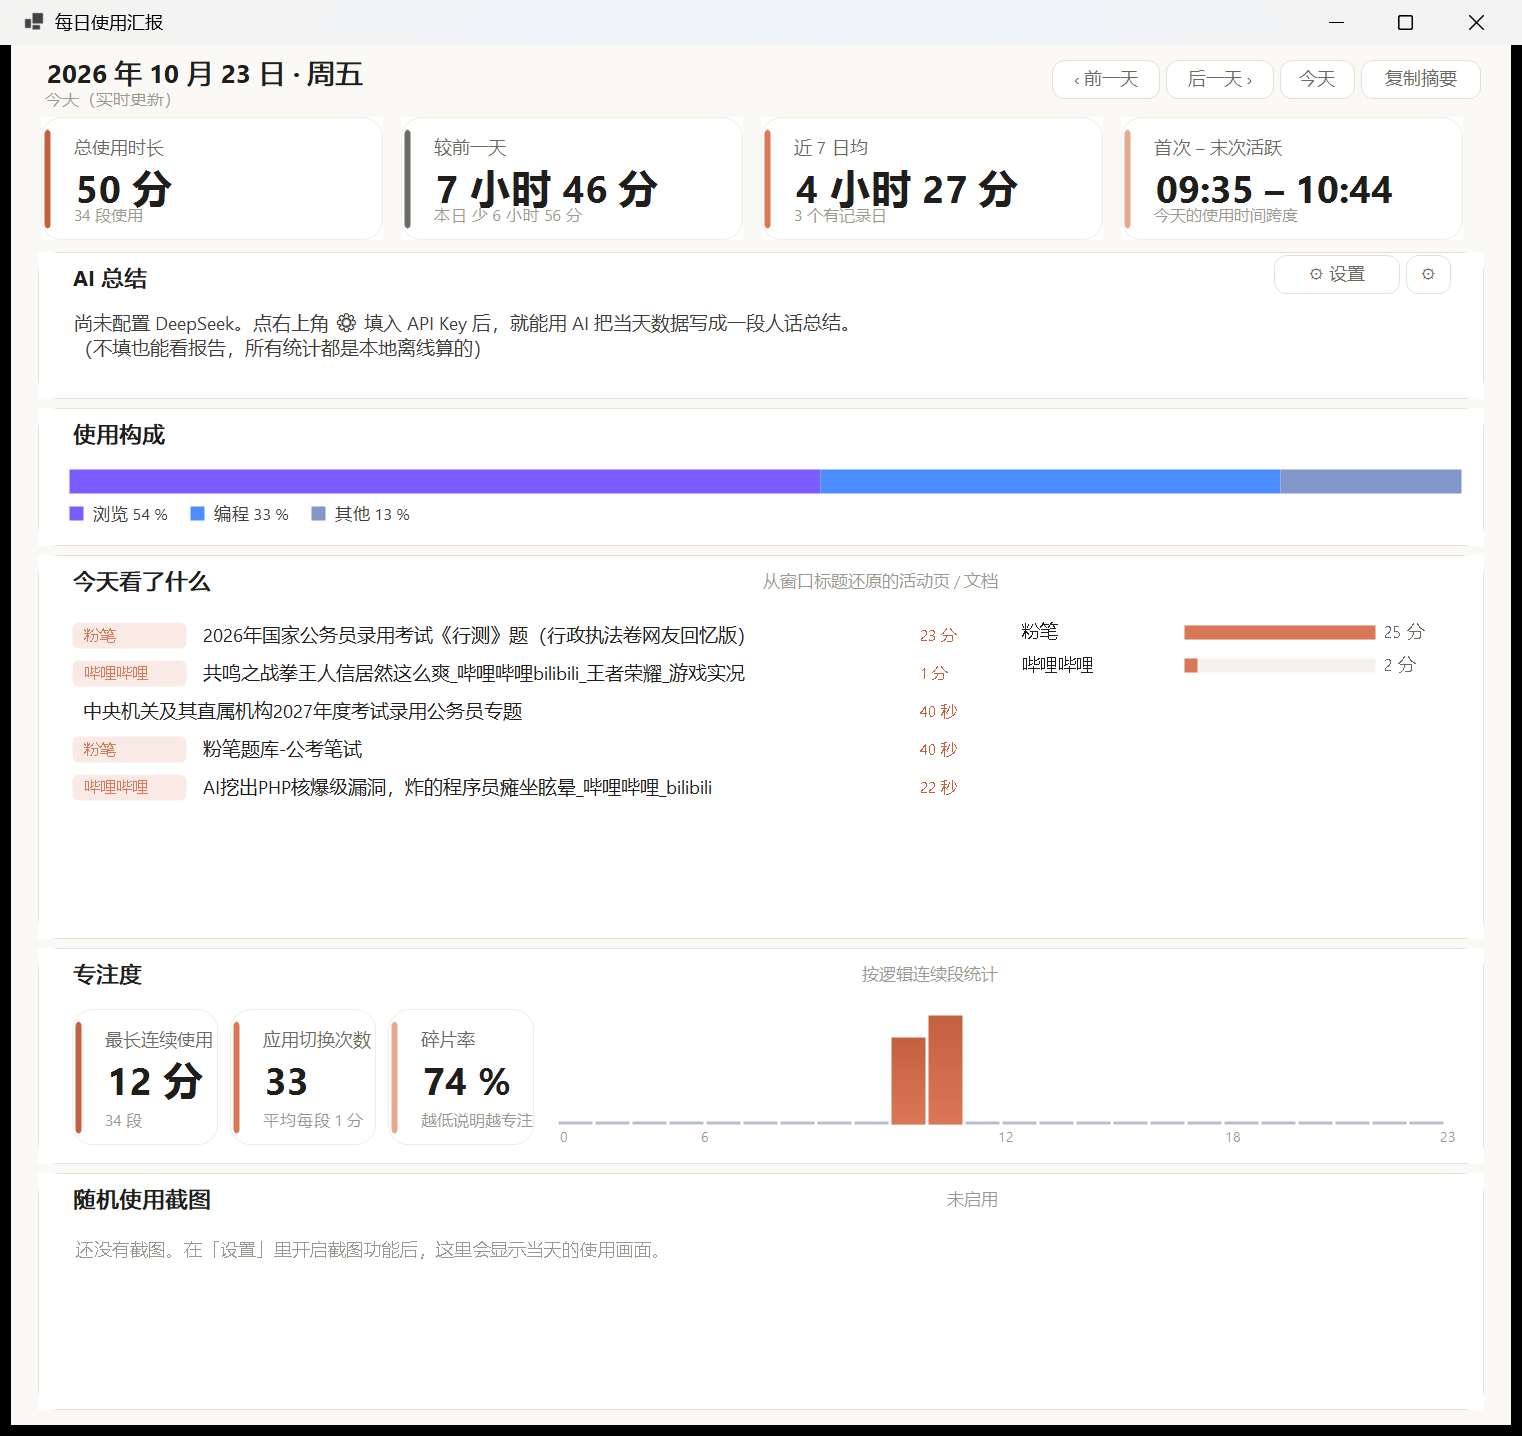
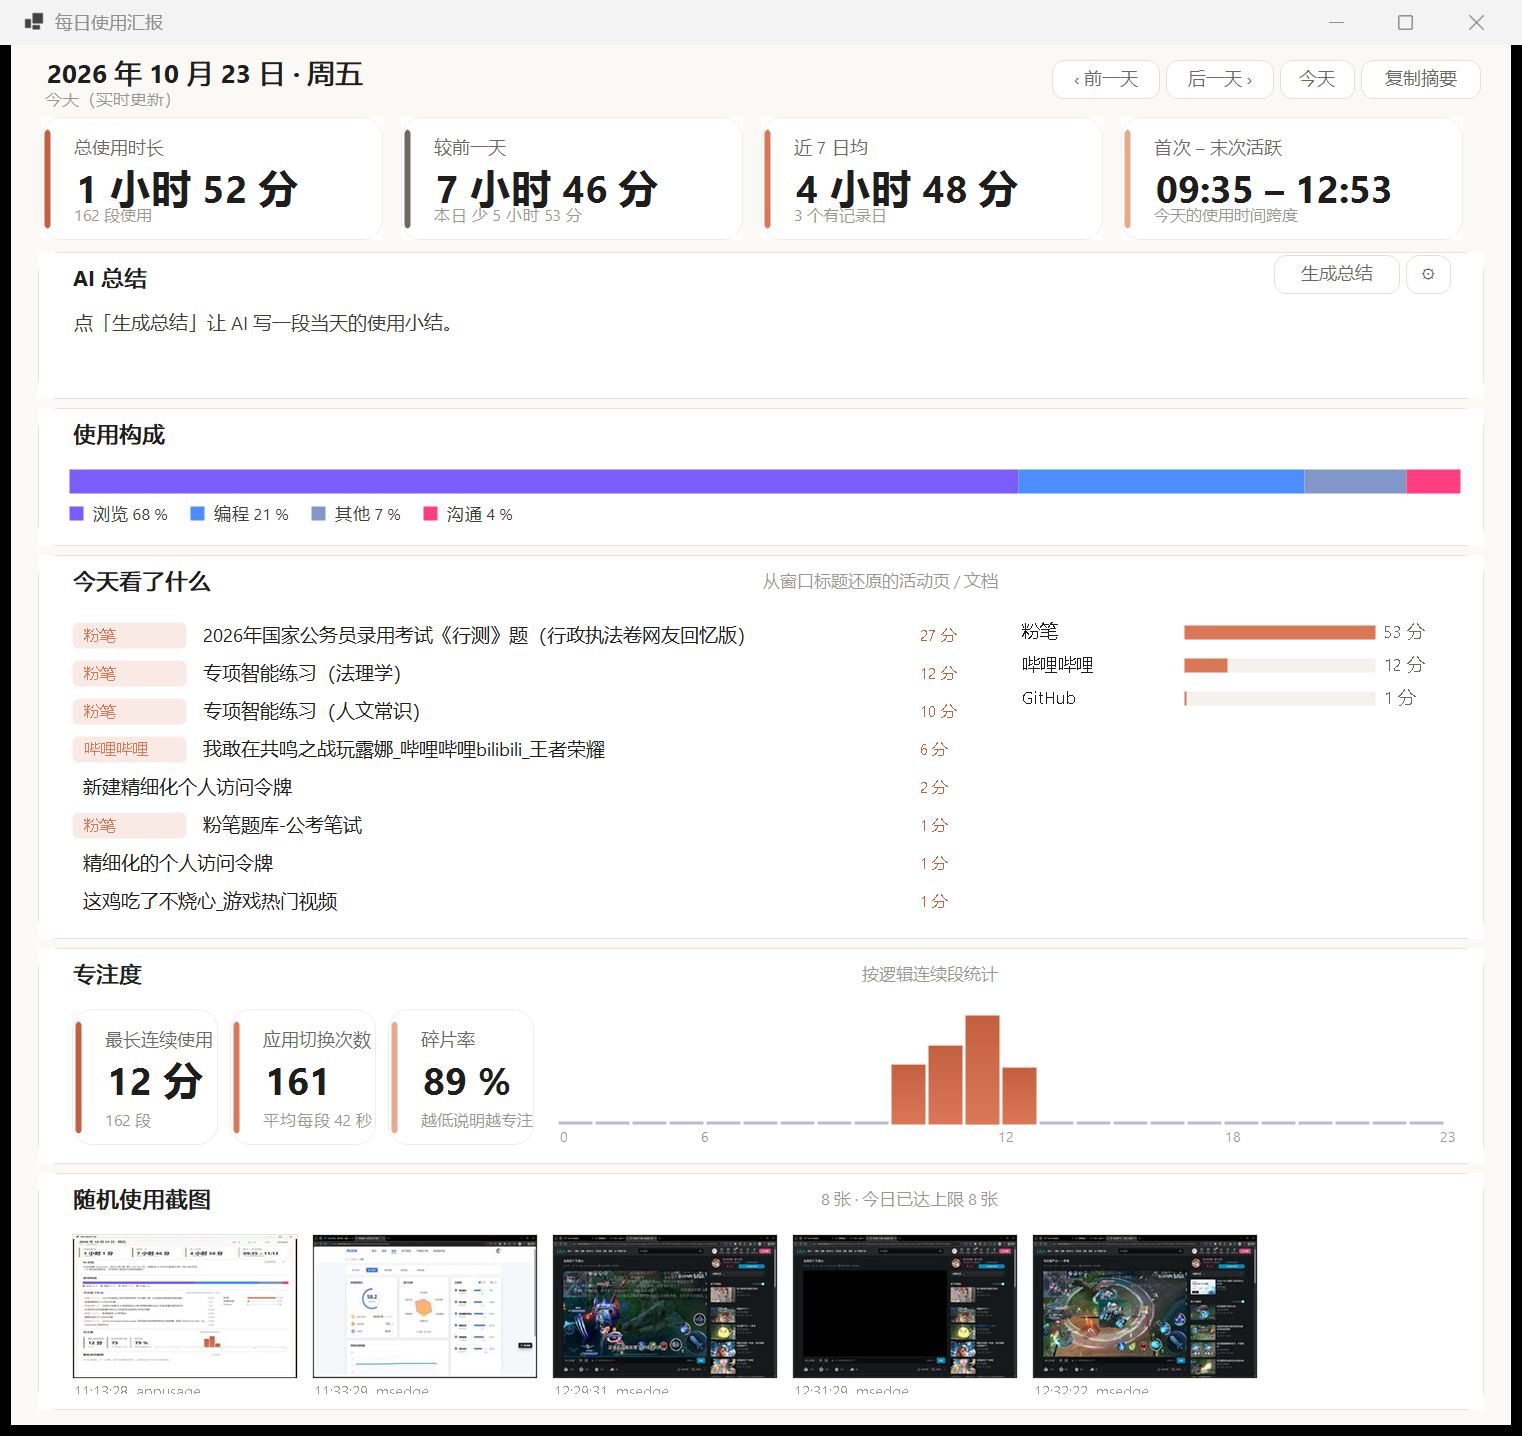
fix: 上传路径的日期格式（DD -> dd）+ 上传清单为唯一真源
.NET 自定义日期格式里 D 不是有效说明符（只有小写 dd），
未识别的字符会原样输出，导致目录名变成字面量 "DD"。
- ShotService：shots/{yyyy}/{MM}/{dd}/ 修正
- ShotIndex：GitHub 链接直接取上传清单里的路径，避免两处各拼一遍格式串
- tools/fix-shot-paths.ps1：一次性数据修复，用 Git Data API 把已上传的
  文件移到正确日期目录（复用同一 blob，不重新上传数据）

diff --git a/native/Core/ShotIndex.cs b/native/Core/ShotIndex.cs
@@ -23,8 +23,10 @@ internal static class ShotIndex
                 ThumbPath = file,
                 App = app,
                 At = day.Date + time,
-                // 只有真传上去的才给 GitHub 链接，避免点开 404
-                GithubUrl = uploaded.ContainsKey(name) ? BlobUrl(config, day, name) : string.Empty,
+                // 直接用上传清单里记的路径（唯一真源），避免两处各拼一遍格式串
+                GithubUrl = uploaded.TryGetValue(name, out var rel) && rel.Length > 0
+                    ? BlobUrl(config, rel)
+                    : string.Empty,
                 Uploaded = uploaded.ContainsKey(name),
             });
         }
@@ -49,11 +51,11 @@ internal static class ShotIndex
         return map;
     }
 
-    public static string BlobUrl(Config config, DateTime day, string name)
+    public static string BlobUrl(Config config, string relPath)
     {
         var s = config.Shots;
         if (!s.HasGithub) return string.Empty;
-        return $"https://github.com/{s.GithubOwner}/{s.GithubRepo}/blob/main/shots/{day:yyyy}/{day:MM}/{day:DD}/{name}.jpg";
+        return $"https://github.com/{s.GithubOwner}/{s.GithubRepo}/blob/main/{relPath}";
     }
 
     public static string RelPath(DateTime day, string name) =>

diff --git a/native/Core/ShotService.cs b/native/Core/ShotService.cs
@@ -136,7 +136,8 @@ internal sealed class ShotService : IDisposable
         var name = $"{now:HH-mm-ss}_{Sanitize(appKey)}";
         SaveThumb(todayDir, name, jpeg, shots.ThumbWidth, shots.JpegQuality);
 
-        var relPath = $"shots/{now:yyyy}/{now:MM}/{now:DD}/{name}.jpg";
+        // 注意：.NET 自定义日期格式里必须用小写 dd（大写 DD 会被原样输出成字面量 "DD"）
+        var relPath = $"shots/{now:yyyy}/{now:MM}/{now:dd}/{name}.jpg";
         _ = UploadAsync(relPath, jpeg, name, now);
     }
 
@@ -192,7 +193,7 @@ internal sealed class ShotService : IDisposable
             {
                 var name = Path.GetFileNameWithoutExtension(f);
                 var at = ParseAt(name);
-                var rel = $"shots/{at:yyyy}/{at:MM}/{at:DD}/{name}.jpg";
+                var rel = $"shots/{at:yyyy}/{at:MM}/{at:dd}/{name}.jpg";
                 var err = Uploader!.UploadAsync(rel, File.ReadAllBytes(f), $"appusage shot {at:yyyy-MM-dd HH:mm:ss}", CancellationToken.None)
                                    .GetAwaiter().GetResult();
                 if (err is null)
